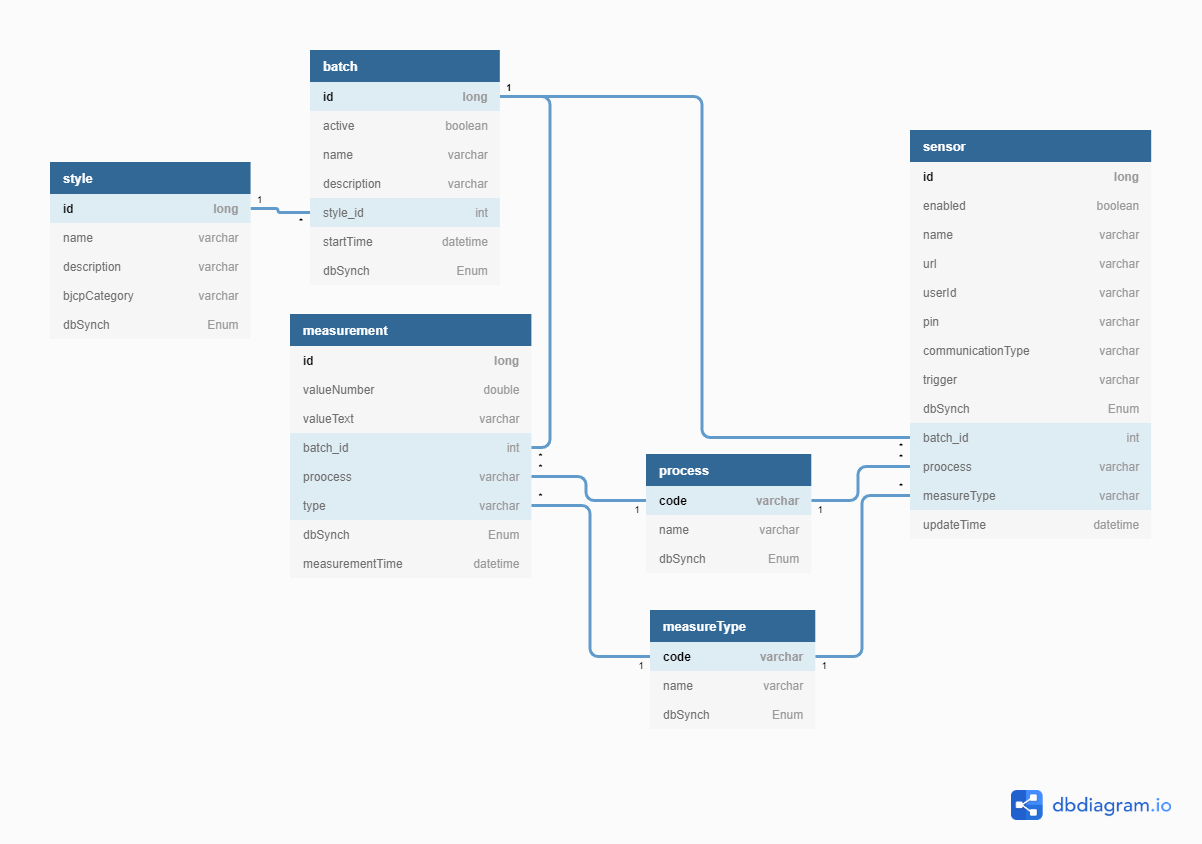
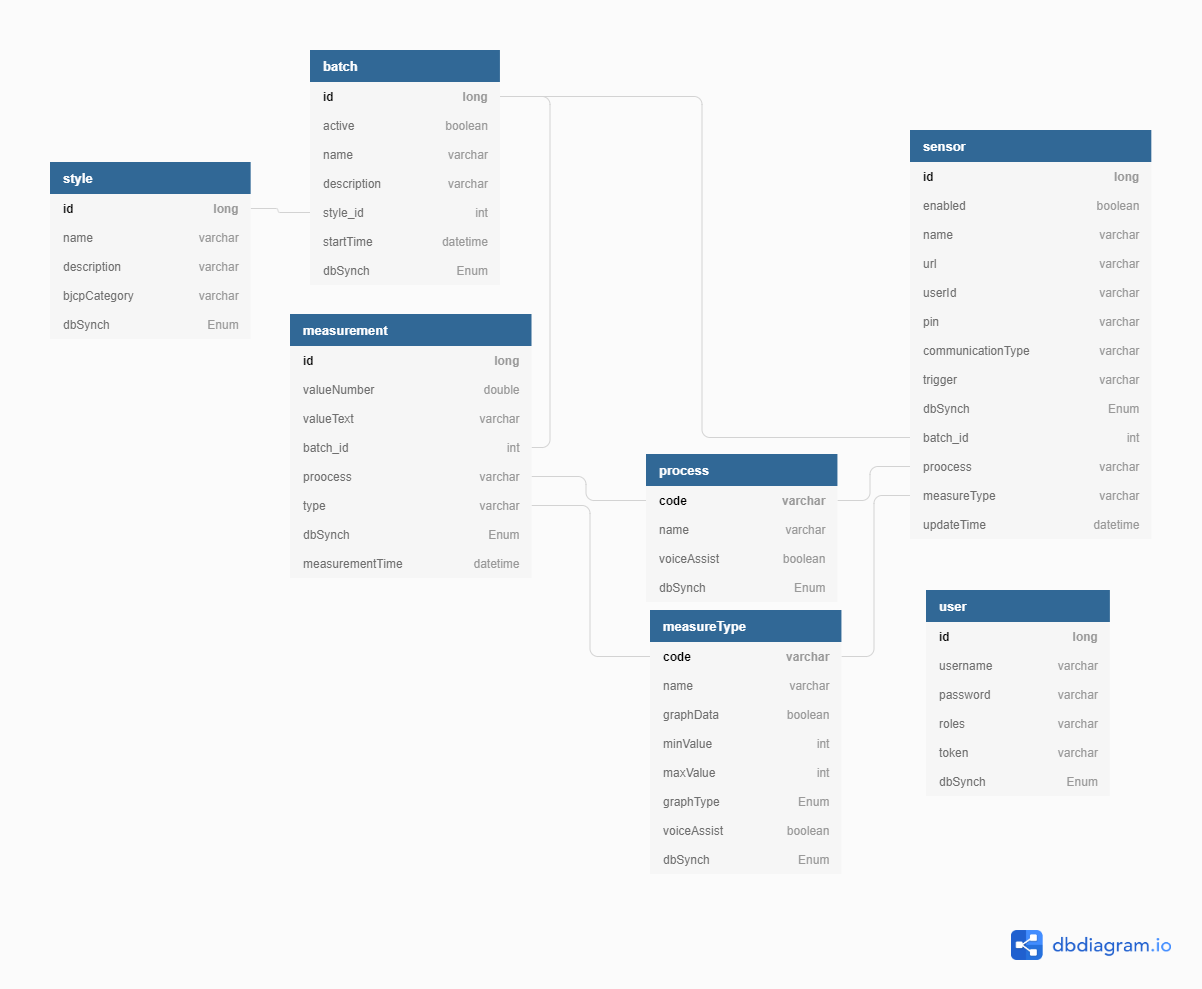
Voice Assistant attribute added to measureTypes and process tables and objects

Changed region(s): [[0.0308, 0.0308, 0.985, 0.8934], [0.8311, 0.9242, 0.9542, 0.9858]]

diff --git a/src/main/resources/templates/measureTypes.html b/src/main/resources/templates/measureTypes.html
@@ -19,6 +19,8 @@
                 <th class="d-none d-lg-block">Name</th>
                 <th>Min</th>
                 <th>Max</th>
+                <th class="d-none d-lg-block">Voice Assist</th>
+                <th></th>
                 <th class="d-none d-lg-block">Graph Data</th>
                 <th>Graph Type</th>
                 <th class="d-none d-lg-block">Synched</th>
@@ -34,6 +36,8 @@
                 <td th:text="${measureType.name}" class="d-none d-lg-block">Name</td>
                 <td th:text="${measureType.minValue}">Min</td>
                 <td th:text="${measureType.maxValue}">Max</td>
+                <td th:text="${measureType.voiceAssist}" class="d-none d-lg-block">voiceAssist</td>
+                <td></td>
                 <td th:text="${measureType.graphData}" class="d-none d-lg-block">graphData</td>
                 <td th:text="${measureType.graphType}">graphType</td>
                 <td th:text="${measureType.dbSynch}" class="d-none d-lg-block">Synched</td>

diff --git a/src/main/resources/templates/processes.html b/src/main/resources/templates/processes.html
@@ -17,6 +17,7 @@
             <tr>
                 <th>Code</th>
                 <th>Name</th>
+                <th>Voice Assist</th>
                 <th class="d-none d-lg-block">Synched</th>
                 <th></th>
                 <th>
@@ -28,6 +29,7 @@
             <tr th:each="process : ${processes}">
                 <td th:text="${process.code}">Code</td>
                 <td th:text="${process.name}">Name</td>
+                <td th:text="${process.voiceAssist}">voiceAssist</td>
                 <td th:text="${process.dbSynch}" class="d-none d-lg-block">Synched</td>
                 <td><a th:href="${'/process/edit/' + process.code}" class="btn btn-default">
 					<img th:src="@{/images/edit-24px.svg}"/>

diff --git a/src/main/resources/templates/measureTypeAdd.html b/src/main/resources/templates/measureTypeAdd.html
@@ -22,6 +22,12 @@
                 </div>
             </div>
             <div class="form-group form-check">
+                <label class="col-sm-2 control-label">Voice Assist:</label>
+                <div class="col-sm-10">
+	                <input type="checkbox" class="form-check-input" name="voiceAssist" th:checked="*{voiceAssist}"/>
+                </div>
+            </div>
+            <div class="form-group form-check">
                 <label class="col-sm-2 control-label">Graph Data:</label>
                 <div class="col-sm-10">
 	                <input type="checkbox" class="form-check-input" name="graphData" th:checked="*{graphData}"/>

diff --git a/src/main/resources/templates/measureTypeEdit.html b/src/main/resources/templates/measureTypeEdit.html
@@ -21,6 +21,12 @@
                 </div>
             </div>
             <div class="form-group form-check">
+                <label class="col-sm-2 control-label">Voice Assist:</label>
+                <div class="col-sm-10">
+	                <input type="checkbox" class="form-check-input" name="voiceAssist" th:checked="*{voiceAssist}"/>
+                </div>
+            </div>
+            <div class="form-group form-check">
                 <label class="col-sm-2 control-label">Graph Data:</label>
                 <div class="col-sm-10">
 	                <input type="checkbox" class="form-check-input" name="graphData" th:checked="*{graphData}"/>

diff --git a/src/main/resources/templates/processAdd.html b/src/main/resources/templates/processAdd.html
@@ -21,6 +21,12 @@
                     <input type="text" class="form-control" th:field="*{name}" />
                 </div>
             </div>
+            <div class="form-group form-check">
+                <label class="col-sm-2 control-label">Voice Assist:</label>
+                <div class="col-sm-10">
+	                <input type="checkbox" class="form-check-input" name="voiceAssist" th:checked="*{voiceAssist}"/>
+                </div>
+            </div>
 			<div class="form-group">
                 <label class="col-sm-2 control-label">Synch Status:</label>
                 <div class="col-sm-10">

diff --git a/src/main/resources/templates/processEdit.html b/src/main/resources/templates/processEdit.html
@@ -20,6 +20,12 @@
                     <input type="text" class="form-control" th:field="*{name}" />
                 </div>
             </div>
+            <div class="form-group form-check">
+                <label class="col-sm-2 control-label">Voice Assist:</label>
+                <div class="col-sm-10">
+	                <input type="checkbox" class="form-check-input" name="voiceAssist" th:checked="*{voiceAssist}"/>
+                </div>
+            </div>
 			<div class="form-group">
                 <label class="col-sm-2 control-label">Synch Status:</label>
                 <div class="col-sm-10">

diff --git a/src/main/java/com/brewery/model/MeasureType.java b/src/main/java/com/brewery/model/MeasureType.java
@@ -19,6 +19,7 @@ public class MeasureType {
 	@Id
 	private String code;
 	private String name;
+	private boolean voiceAssist;
 	private boolean graphData;
 	private int minValue;
 	private int maxValue;
@@ -30,6 +31,7 @@ public class MeasureType {
 
 	public MeasureType() {
 		super();
+		this.voiceAssist = false;
 		this.graphData = false;
 		this.minValue = 0;
 		this.maxValue = 200;
@@ -40,6 +42,7 @@ public class MeasureType {
 		super();
 		this.code = code;
 		this.name = name;
+		this.voiceAssist = false;
 		this.graphData = false;
 		this.minValue = 0;
 		this.maxValue = 200;
@@ -50,6 +53,7 @@ public class MeasureType {
 		super();
 		this.code = code;
 		this.name = name;
+		this.voiceAssist = false;
 		this.graphData = false;
 		this.minValue = 0;
 		this.maxValue = 200;
@@ -61,12 +65,26 @@ public class MeasureType {
 		super();
 		this.code = code;
 		this.name = name;
+		this.voiceAssist = false;
 		this.graphData = graphData;
 		this.minValue = minValue;
 		this.maxValue = maxValue;
 		this.graphType = graphType;
 		this.dbSynch = dbSynch;
 	}
+	public MeasureType(String code, String name, boolean voiceAssist, boolean graphData, int minValue, int maxValue,
+			GraphTypes graphType, DbSync dbSynch) {
+		super();
+		this.code = code;
+		this.name = name;
+		this.voiceAssist = voiceAssist;
+		this.graphData = graphData;
+		this.minValue = minValue;
+		this.maxValue = maxValue;
+		this.graphType = graphType;
+		this.dbSynch = dbSynch;
+	}
+	
 	
 	public String getCode() {
 		return code;
@@ -82,6 +100,13 @@ public class MeasureType {
 		this.name = name;
 	}
 
+    public boolean isVoiceAssist() {
+		return voiceAssist;
+	}
+	public void setVoiceAssist(boolean voiceAssist) {
+		this.voiceAssist = voiceAssist;
+	}
+	
     public boolean isGraphData() {
 		return graphData;
 	}
@@ -119,8 +144,8 @@ public class MeasureType {
 	
 	@Override
 	public String toString() {
-		return "MeasureType [code=" + code + ", name=" + name + ", graphData=" + graphData + ", minValue=" + minValue
-				+ ", maxValue=" + maxValue + ", graphType=" + graphType + ", dbSynch=" + dbSynch + "]";
+		return "MeasureType [code=" + code + ", name=" + name + ", voiceAssist=" + voiceAssist+ ", graphData=" + graphData 
+				+ ", minValue=" + minValue + ", maxValue=" + maxValue + ", graphType=" + graphType + ", dbSynch=" + dbSynch + "]";
 	}
 	
 }

diff --git a/src/main/java/com/brewery/model/Process.java b/src/main/java/com/brewery/model/Process.java
@@ -19,7 +19,8 @@ public class Process {
 	@Id
 	private String code;
 	private String name;
-
+	private boolean voiceAssist;
+	
 	@Enumerated( EnumType.STRING )
 	private DbSync dbSynch;
 
@@ -31,12 +32,21 @@ public class Process {
 		super();
 		this.code = code;
 		this.name = name;
+		this.voiceAssist = false;
 		this.dbSynch = DbSync.ADD; 
 	}
 	public Process( String code, String name, DbSync dbSynch ) {
 		super();
 		this.code = code;
 		this.name = name;
+		this.voiceAssist = false;
+    	this.dbSynch = dbSynch;
+	}
+	public Process( String code, String name, boolean voiceAssist, DbSync dbSynch ) {
+		super();
+		this.code = code;
+		this.name = name;
+		this.voiceAssist = voiceAssist;
     	this.dbSynch = dbSynch;
 	}
 
@@ -54,7 +64,14 @@ public class Process {
 		this.name = name;
 	}
 
-    public DbSync getDbSynch() {
+    public boolean isVoiceAssist() {
+		return voiceAssist;
+	}
+	public void setVoiceAssist(boolean voiceAssist) {
+		this.voiceAssist = voiceAssist;
+	}
+	
+	public DbSync getDbSynch() {
 		return dbSynch;
 	}
 	public void setDbSynch(DbSync dbSynch) {
@@ -63,6 +80,6 @@ public class Process {
 	
 	@Override
 	public String toString() {
-		return "Process [code=" + code + ", name=" + name + ", dbSynch=" + dbSynch + "]";
+		return "Process [code=" + code + ", name=" + name + ", voiceAssist=" + voiceAssist + ", dbSynch=" + dbSynch + "]";
 	}
 }

diff --git a/src/main/java/com/brewery/service/DataService.java b/src/main/java/com/brewery/service/DataService.java
@@ -169,6 +169,7 @@ public class DataService implements UserDetailsService {
     	Process foundProcess = processRepository.getOne( processToUpdate.getCode() );
         try {
         	foundProcess.setName( processToUpdate.getName() );
+        	foundProcess.setVoiceAssist( processToUpdate.isVoiceAssist() );
         	foundProcess.setDbSynch( processToUpdate.getDbSynch() );
             return processRepository.save( foundProcess );
         } catch (Exception e) {
@@ -224,6 +225,7 @@ public class DataService implements UserDetailsService {
         try {
         	foundMeasureType.setName( measureTypeToUpdate.getName() );
         	foundMeasureType.setDbSynch( measureTypeToUpdate.getDbSynch() );
+        	foundMeasureType.setVoiceAssist( measureTypeToUpdate.isVoiceAssist() );
         	foundMeasureType.setGraphData( measureTypeToUpdate.isGraphData() );
         	foundMeasureType.setMinValue( measureTypeToUpdate.getMinValue() );
         	foundMeasureType.setMaxValue( measureTypeToUpdate.getMaxValue() );
